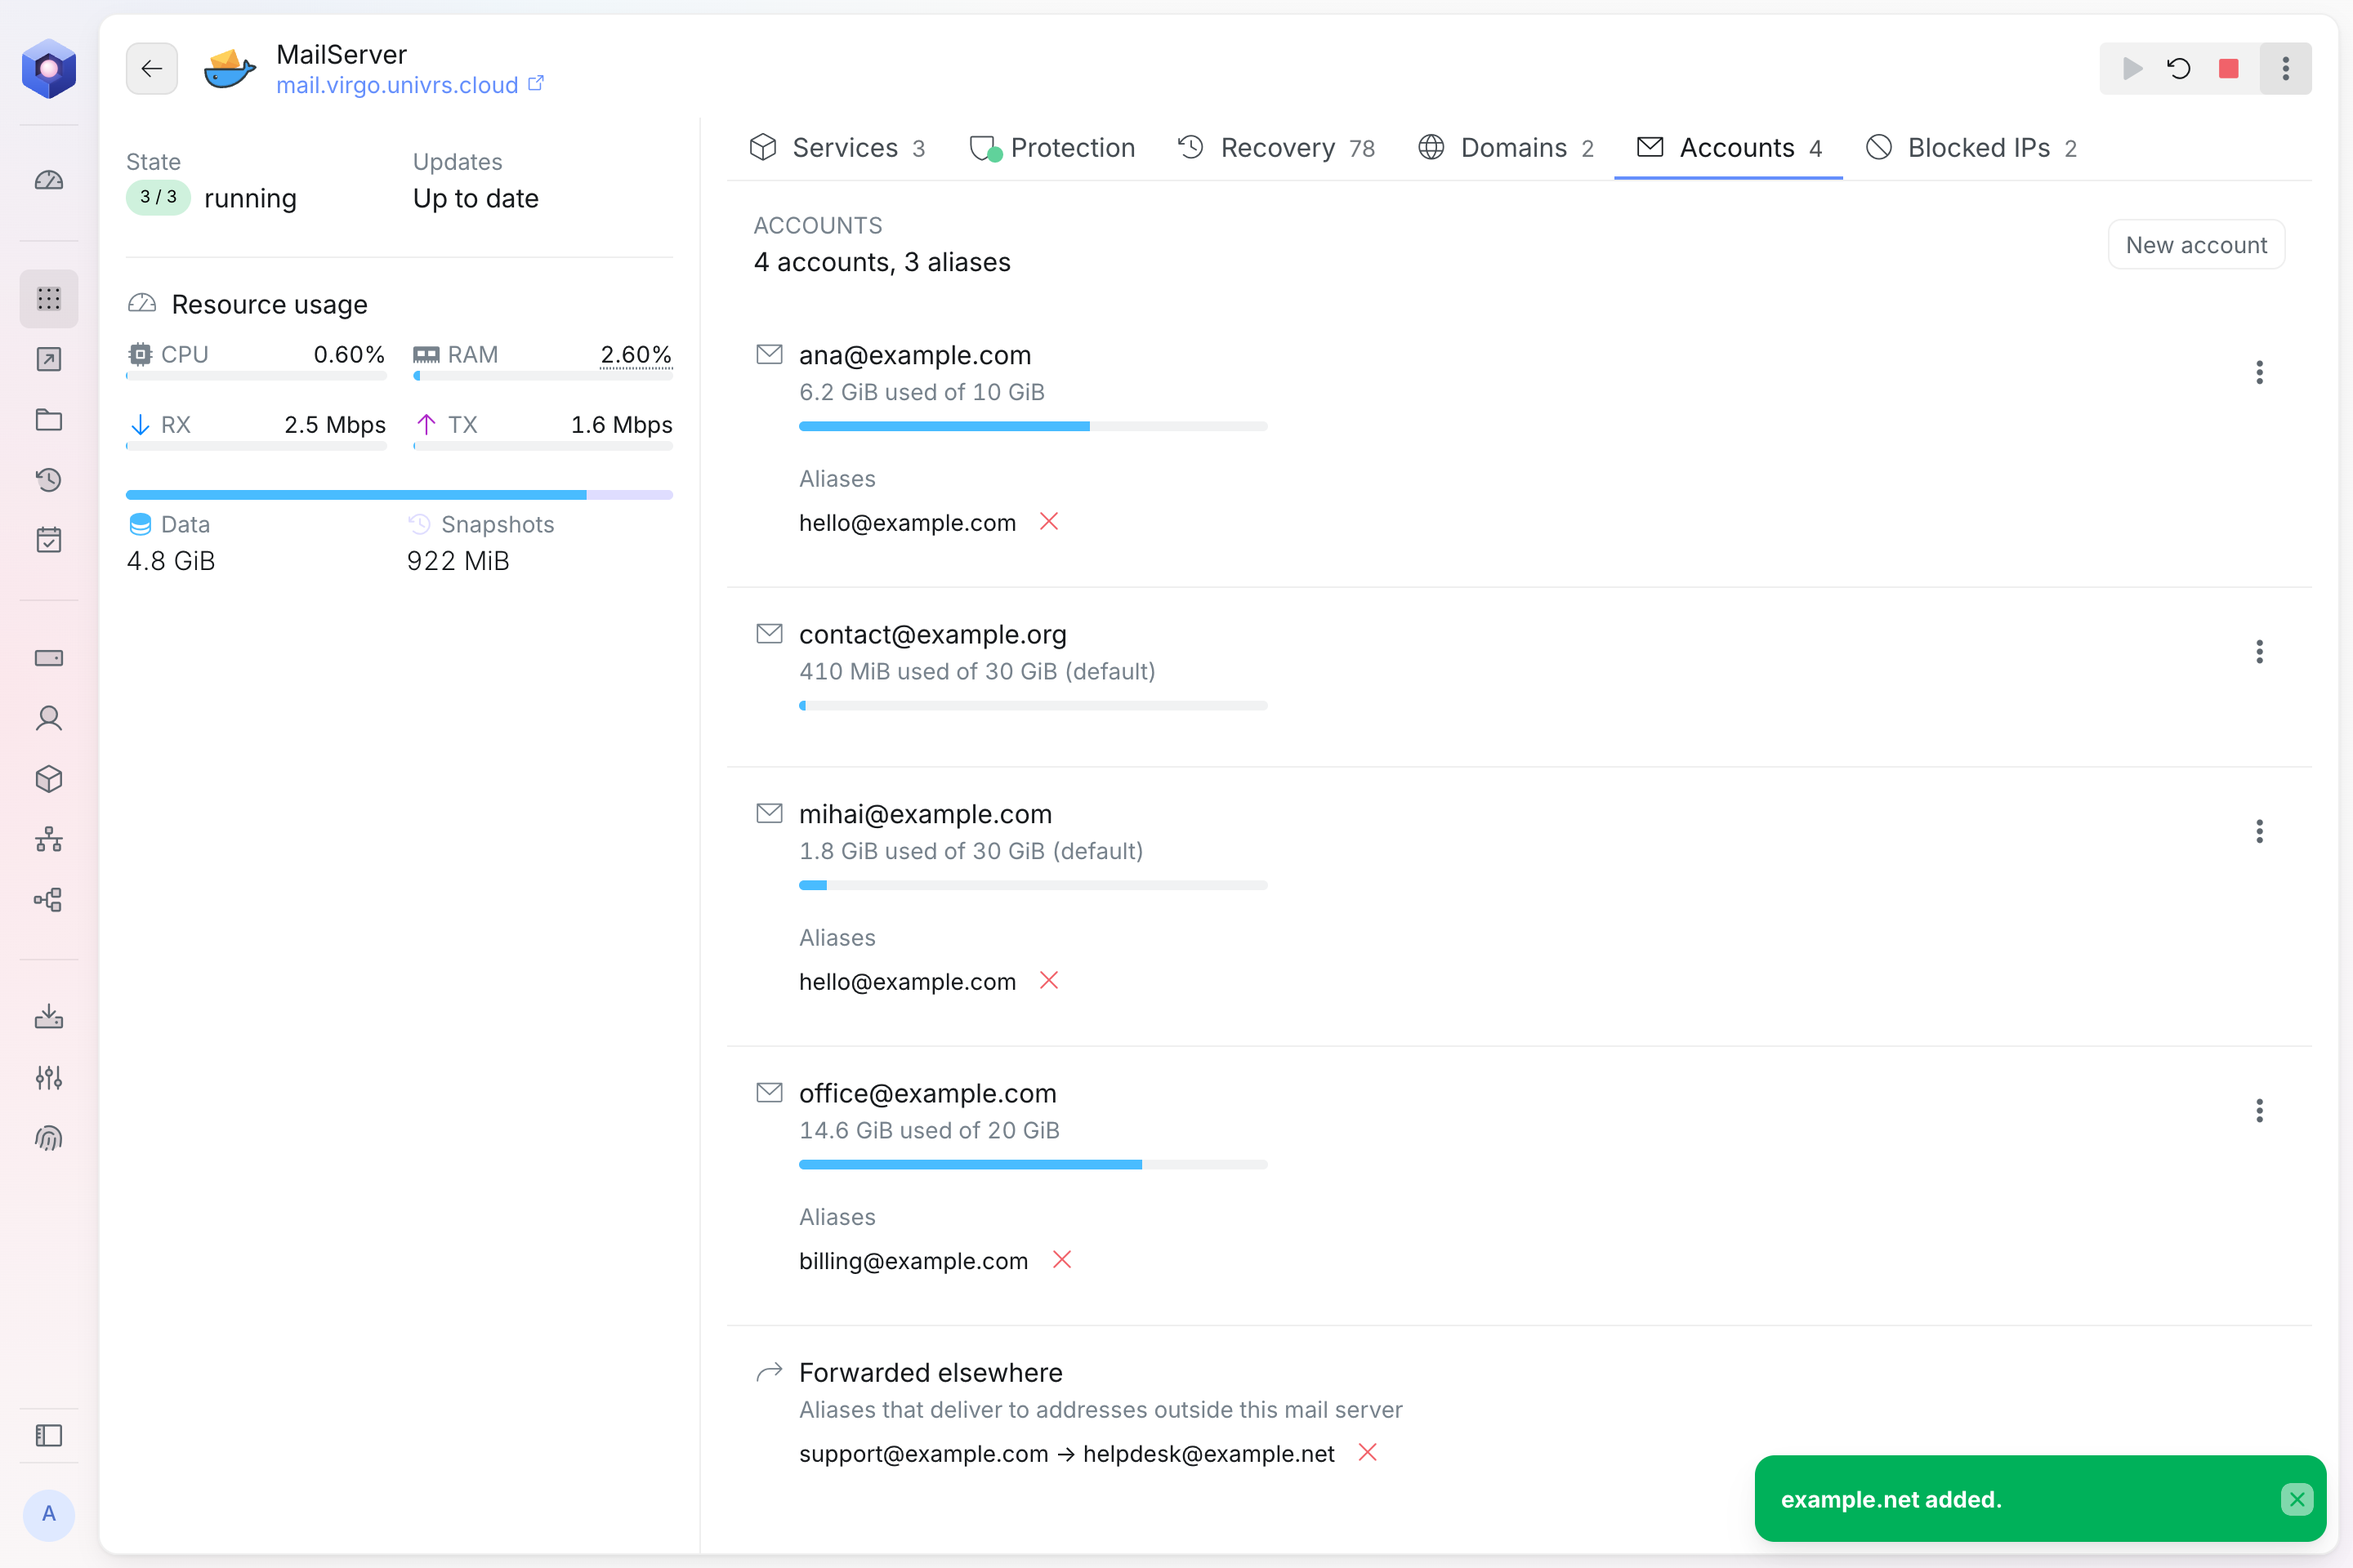
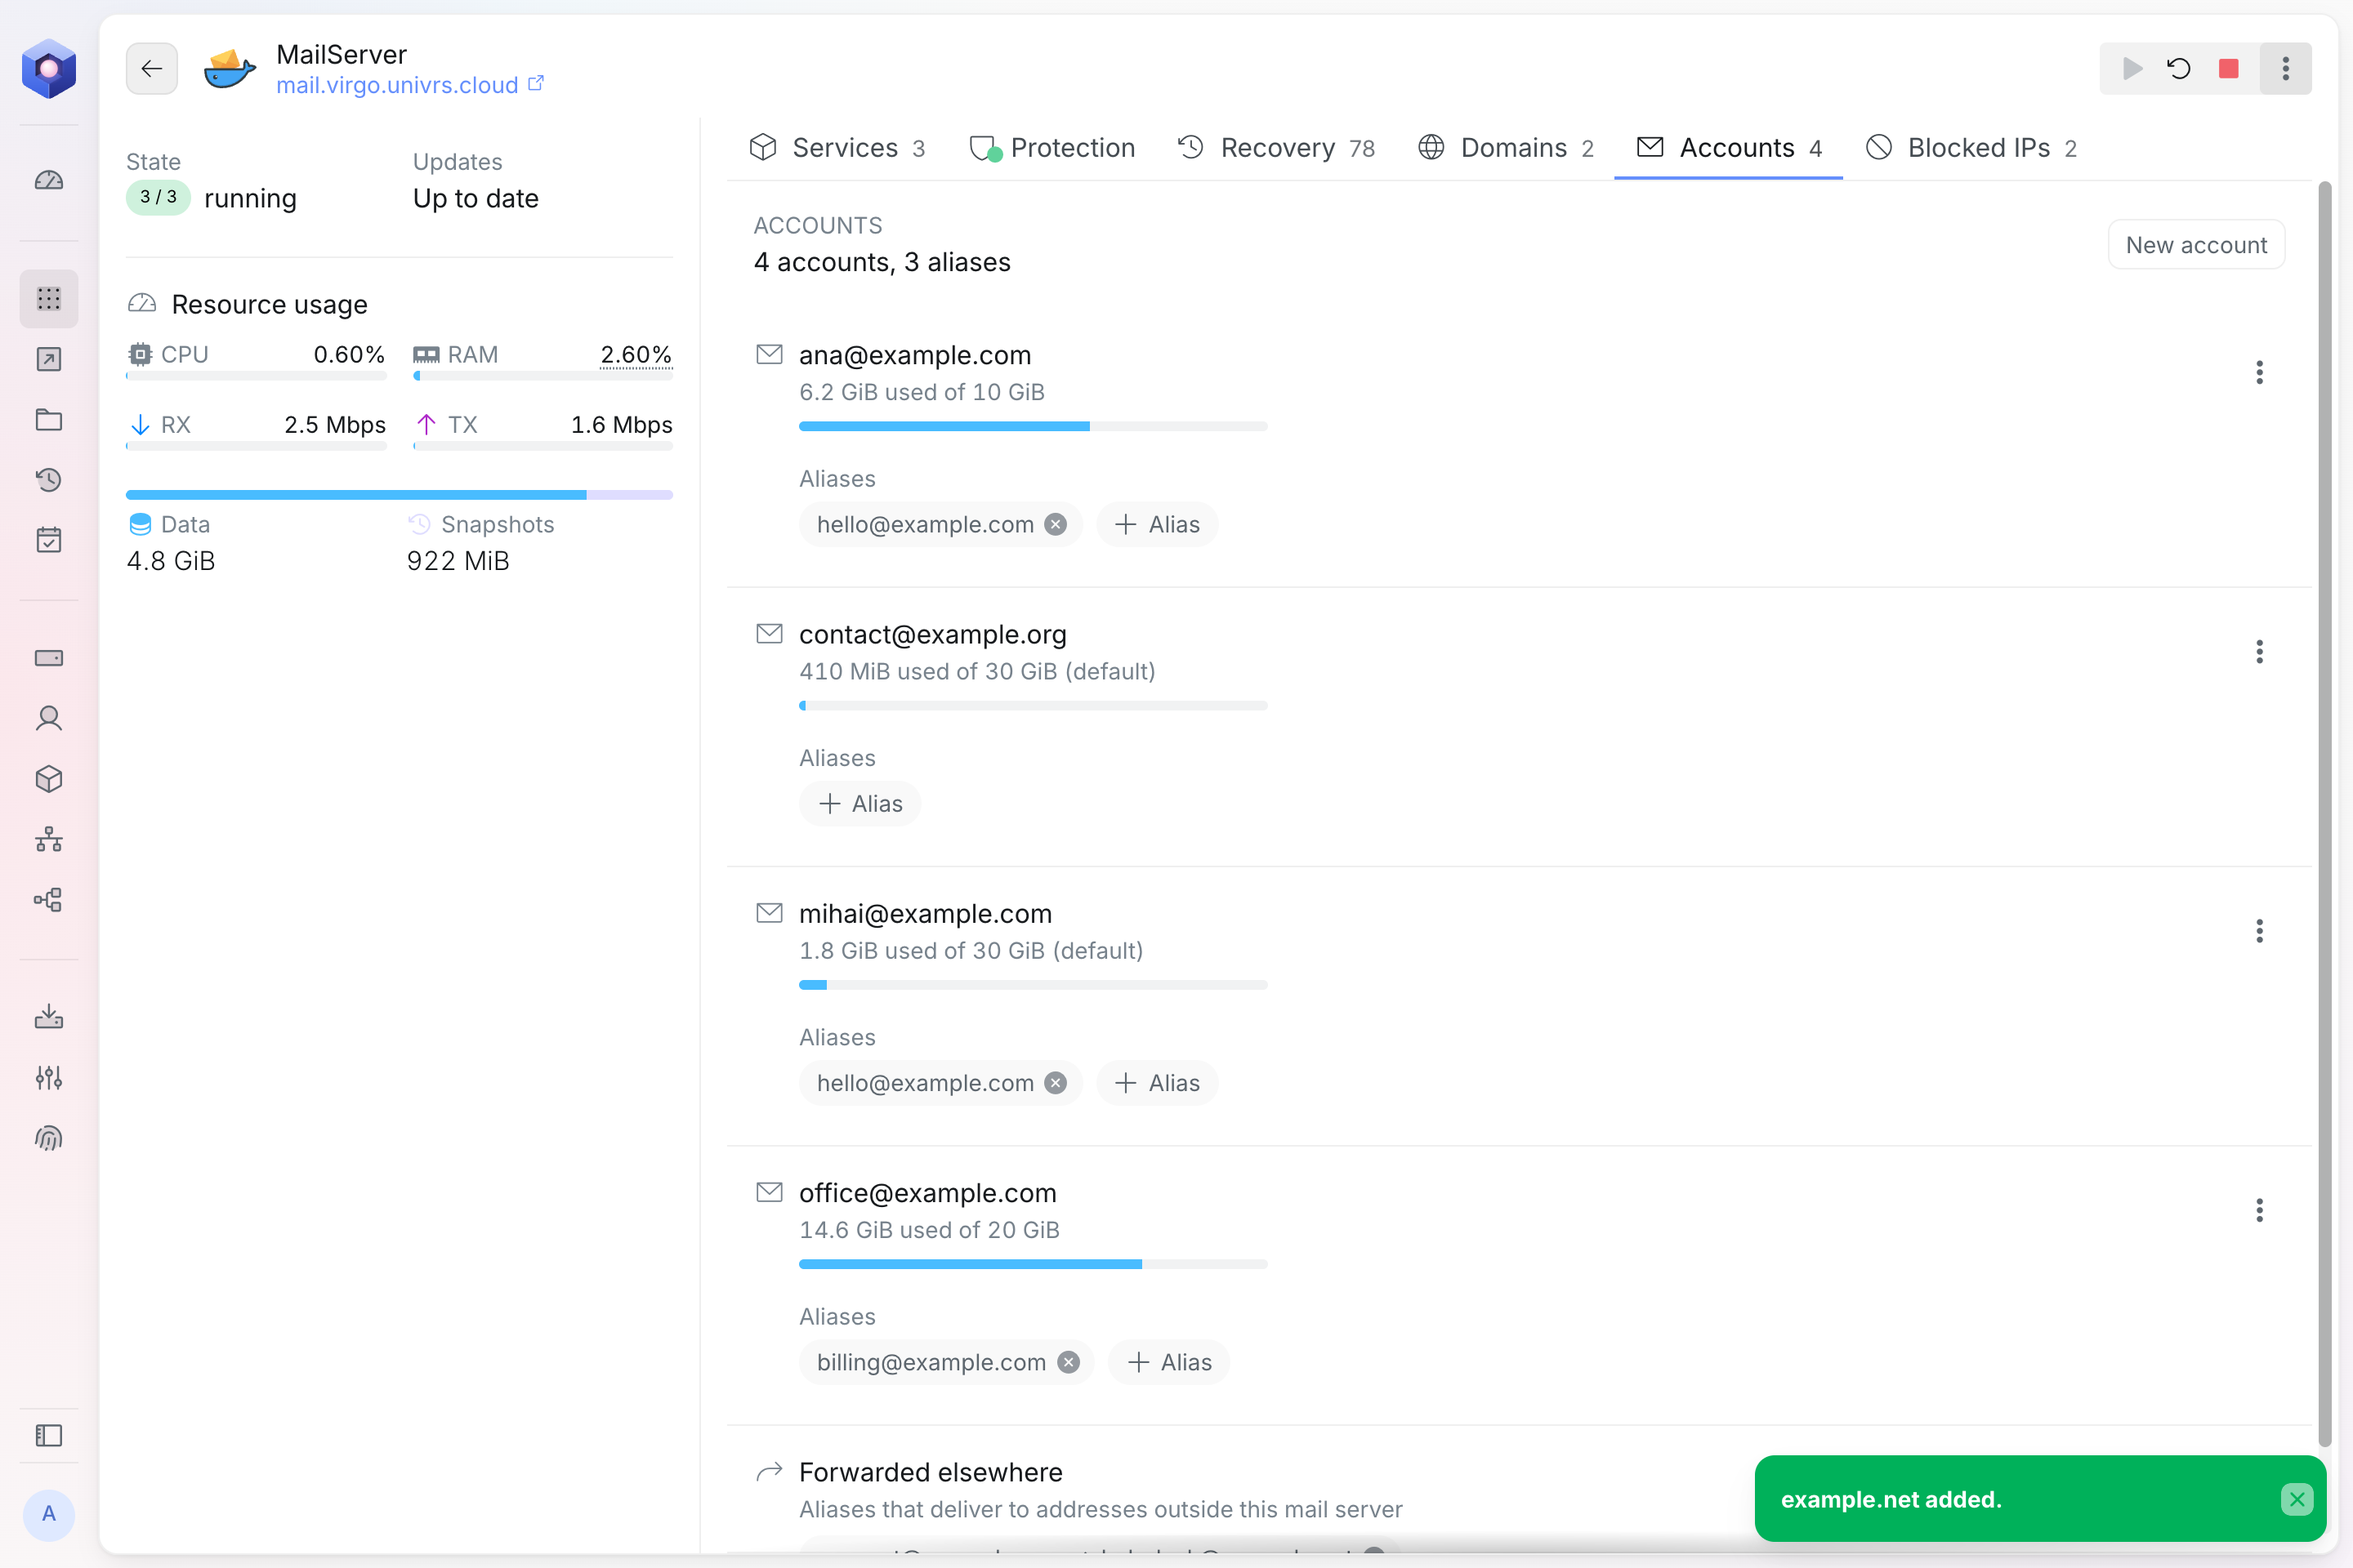
docs(apps): document Nextcloud accounts and groups, update MailServer storage limits and aliases

Changed region(s): [[0.3125, 0.4688, 0.7812, 1.0], [0.9688, 0.125, 1.0, 0.9062], [0.3438, 0.3125, 0.4688, 0.3438]]

diff --git a/src/content/docs/management/resources/apps/index.md b/src/content/docs/management/resources/apps/index.md
@@ -81,9 +81,23 @@ The node checks for them every day at midnight. When one is available, the same 
 
 While Nextcloud itself has an update, the buttons in **Apps** are turned off: select **Update** at the top instead. Its apps are updated first, while Nextcloud is still running, and Nextcloud is updated right after. The spinning gear stays until both are done.
 
+### Nextcloud accounts
+
+Nextcloud keeps its own accounts, separate from the node's users. Open Nextcloud's details and select **Accounts** to see them: each user with their username, email, groups, last login and the space their files take up against their storage limit, marked **(default)** when they use Nextcloud's default limit. Disabled users are marked as such. Select **New account** to add one: give it a username, a name, an email address, any groups, a password and a storage limit, which starts at Nextcloud's default.
+
+![Adding a Nextcloud account](../../../../../assets/management/app-nextcloud-account-create.png)
+
+An account's menu edits its name, email address and storage limit. It also disables the account, so it can no longer log in or sync while its files are kept, and enables it again. To delete an account, select **Delete** in its menu. Under **Transfer ownership to**, pick another account to receive its files, or keep **Do not transfer**. Files that are not transferred are deleted with the account and can then only be recovered from a snapshot, so the dialog asks you to confirm that before **Delete** works. The receiving account needs enough free space under its storage limit. Nextcloud's last administrator can't be disabled or deleted.
+
+![Deleting a Nextcloud account](../../../../../assets/management/app-nextcloud-account-delete.png)
+
+ Select the cross on one of a user's groups to take them out of it, or the plus to add them to another group. The last member of the `admin` group can't be taken out, because Nextcloud needs an administrator. Below the users, **Groups** lists each group with how many members it has. Select **New group** to add one, giving it just a name. A group's menu deletes it: its members keep their accounts and files, but lose what was shared with the group. The `admin` group can't be deleted, and groups are renamed in Nextcloud itself.
+
+![Nextcloud's accounts](../../../../../assets/management/app-nextcloud-accounts.png)
+
 ## An app's details
 
-Select an app to open its details. **Services** shows the app's containers and **Recovery** its [restore points](/management/resources/apps/snapshots/#restore-points), each with how many there are. **Protection** says how its [snapshots](/management/resources/apps/snapshots/#snapshotting) are taken. Nextcloud also has **Apps**, for [its own apps' updates](#updating-nextcloud-apps). MailServer also has **Domains**, **Accounts** and **Blocked IPs**, for [managing its mail](#managing-mailserver).
+Select an app to open its details. **Services** shows the app's containers and **Recovery** its [restore points](/management/resources/apps/snapshots/#restore-points), each with how many there are. **Protection** says how its [snapshots](/management/resources/apps/snapshots/#snapshotting) are taken. Nextcloud also has **Apps**, for [its own apps' updates](#updating-nextcloud-apps), and **Accounts**, for [its users and groups](#nextcloud-accounts). MailServer also has **Domains**, **Accounts** and **Blocked IPs**, for [managing its mail](#managing-mailserver). These extra tabs only appear while the app is running.
 
 ![Nextcloud's details](../../../../../assets/management/app-details.png)
 
@@ -107,7 +121,7 @@ Press **Ctrl+F**, or **⌘F** on a Mac, to find text in the terminal. **Enter** 
 
 ## Managing MailServer
 
-Open MailServer's details to manage the mail it handles. Changes need MailServer to be running; while it is stopped, the tabs only show what is there.
+Open MailServer's details to manage the mail it handles.
 
 ### Domains
 
@@ -125,11 +139,11 @@ Select **DNS records** under a domain to see every record to add to that domain'
 
 ![MailServer's accounts](../../../../../assets/management/app-mail-accounts.png)
 
-Select **New account** to create a mailbox: pick its domain, which starts on MailServer's own domain, then its name, and set its password. The storage limit starts at MailServer's default; keep it, or change it to give the account a limit of its own. Accounts on the default are marked **(default)** in the list. Check **No storage limit** to let it grow without a limit.
+Select **New account** to create a mailbox: pick its domain, which starts on MailServer's own domain, then its name, and set its password. The storage limit starts at MailServer's default; keep it, or change it to give the account a limit of its own. Accounts on the default are marked **(default)** in the list.
 
 ![Adding a mail account](../../../../../assets/management/app-mail-account-create.png)
 
-An account's menu changes its password or storage limit, adds an alias that delivers to it, or removes it. Removing an account permanently deletes all of its mail and its aliases. Select the cross next to an alias to remove it.
+An account's menu changes its password or storage limit, or removes it. Removing an account permanently deletes all of its mail and its aliases. Select **Alias** after an account's aliases to add one that delivers to it, or the cross on an alias to remove it.
 
 ### Blocked IPs
 
